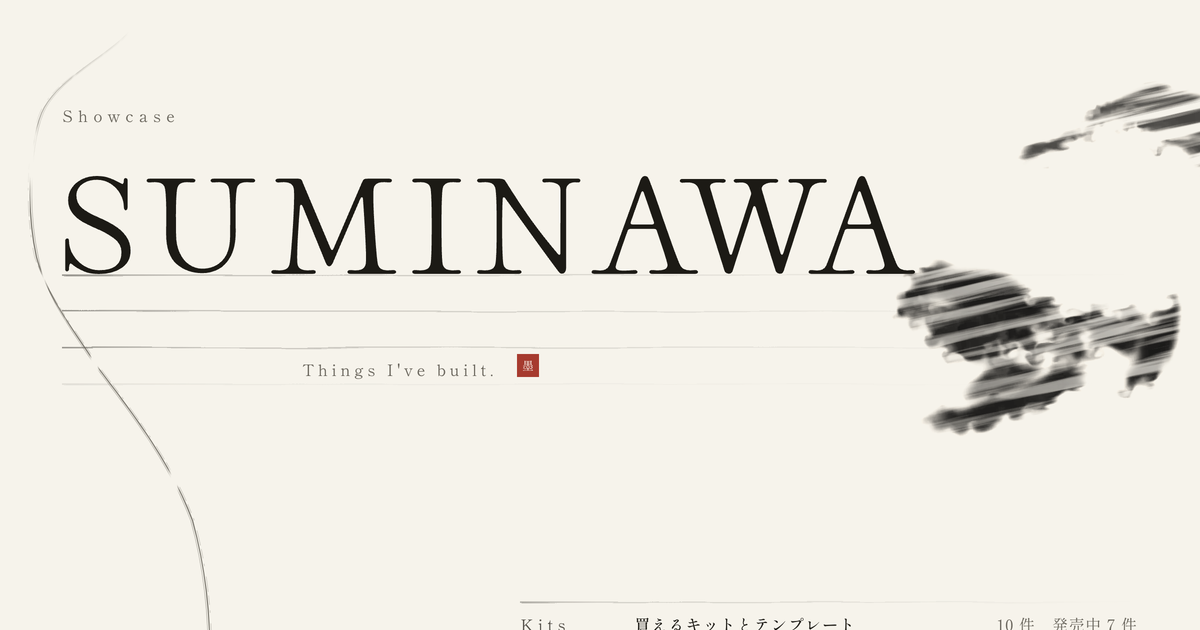
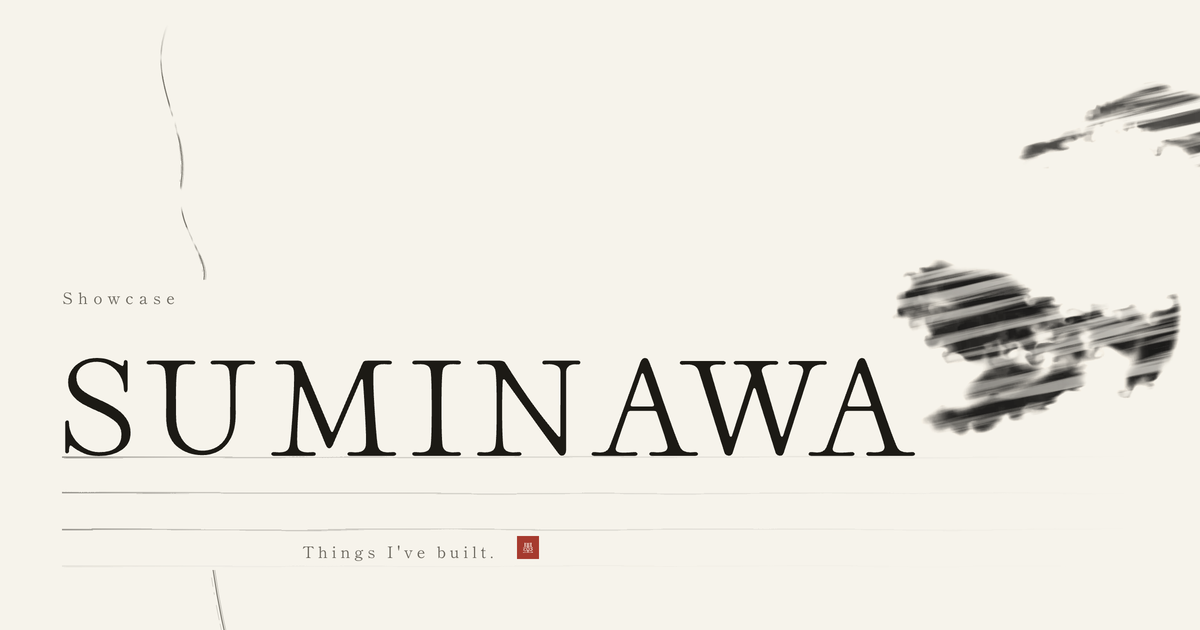
脈を元の二部品に戻し、本脈の書き出しを名乗りの直下へ上げる
大字の左を回して一本に繋いだ形を取り消し、元のハブと同じ二つの部品に戻した。

・入りの一筆は元のハブのまま。器（名乗りの上の空白の行）に罫 7 本ぶんを
  残す ── 詰めると同じ d が縦に潰れ、穏やかな一筆が小さな渦になる
  （曲率 0.003 → 0.44 /px）
・本脈は【名乗りの塊のすぐ下】＝ 英文の行の直下から、結びの手前まで
  一つの箱で降りる。書き出しが入口の下まで 750px 落ちていたのが
  「途中で消えている」の正体だった
・通り道は元のハブと同じ（x=0 が紙の中身の左端、x=100 が柱の左端）。
  最大曲率は 1280 で 0.0028 /px（半径 362px）、直線の区間なし
・狭い紙の振れ・太さ・濃さは前の周のまま（脈だけの紙の最暗画素は
  390〜1920 のどこでも 108/255）
・罫には触れていない

字の箱 215 件で脈に掛かる字 0 件。全長は 1280 で 2,429px。

diff --git a/src/lib/vein.ts b/src/lib/vein.ts
@@ -44,8 +44,7 @@ type Ends = readonly [start: number, end: number];
 
 const WIDE: Record<VeinSegment, Ends> = {
   head: [23, 31],
-  mark: [26, 40],
-  span: [40, 17],
+  span: [33, 6],
   w1: [33, 91],
   w2: [91, 87],
   w3: [87, 80],
@@ -55,22 +54,14 @@ const WIDE: Record<VeinSegment, Ends> = {
 /** 狭い紙は別の d を使う（振れ幅が 4〜5 倍）。端点も違うので表を分ける */
 const NARROW: Record<VeinSegment, Ends> = {
   head: [62, 46],
-  mark: [55, 56],
-  span: [56, 30],
+  span: [30, 16],
   w1: [36, 84],
   w2: [84, 74],
   w3: [74, 56],
   tail: [56, 17],
 };
 
-export type VeinSegment =
-  | "head"
-  | "mark"
-  | "span"
-  | "w1"
-  | "w2"
-  | "w3"
-  | "tail";
+export type VeinSegment = "head" | "span" | "w1" | "w2" | "w3" | "tail";
 
 /*
  * 脈の座標系。区間ごとに viewBox="0 0 100 100" / preserveAspectRatio="none" で、
@@ -91,33 +82,27 @@ export type VeinSegment =
  */
 export const STRANDS = {
   /*
-   * 上から下までの一本（2026-09-22）。区間は【名乗り】と【段から結びまで】の二つで、
-   * どちらも同じ通り道（紙の左端 x=0 〜 柱の左端 x=100）の上に置いてある。
-   * 継ぎ目では両側の接線を垂直にそろえてあるので、箱の縦横比が違っても折れない。
+   * 本脈 ── 名乗りの塊のすぐ下（英文「Things I've built.」の行の直下）から、
+   * 結びの界線が始まる手前まで、**一つの箱**で降りる。
    *
-   * ── なぜ二区間で、なぜ通り道に紙の縁を足したか ─────────────
-   * 紙が 2,000px を切ってからは、名乗りの上の一筆と段の脈が離れていると
-   * 「間」ではなく【切れている】に見える。つなぐには名乗りの帯を通すしかないが、
-   * そこには大字（SUMINAWA）が紙の左端から右へ伸びている。
-   * だから通り道を紙の縁（padding-inline）ぶん左へ広げ、**大字の左の余白**を
-   * すり抜けさせた。名乗りの中で脈が x<12 単位（1280px の紙で 67px）に収まるのは
-   * そのためで、そこから下は罫を抜いた入口の左の帯へ出て、段の横を通る。
+   * ＊ 一度は入りの一筆と本脈を一本に繋ぎ、大字の左の余白を回らせた
+   *   （2026-09-22 に取り消し）。部品は元のハブと同じ二つ ── 左上の入りの一筆と、
+   *   名乗りの下から始まる本脈 ── で、離れていることは「切れ」ではない。
+   *   「途中で消えている」の正体は、本脈の書き出しが入口の【下】まで
+   *   750px ほど落ちていたことだった。書き出しを名乗りの直下へ上げると、
+   *   元のハブと同じ関係に戻る。
    *
-   * ── 曲率（画面の寸法へ写して測る）─────────────────────────
-   *   元のハブ 1280 の最大 0.0333 /px（半径 30px）
-   *   mark（箱 555×814）0.0173 /px（半径 58px）／ span（箱 555×846）0.0120 /px（83px）
-   *   768px（箱 157×754）0.0076 /px ／ 390px（箱 55×839 / 55×880）0.0075・0.0047 /px
-   * 直線の区間（曲率 0 の帯）は無い。
+   * 通り道は元のハブと同じ ── x=0 が紙の中身の左端、x=100 が柱（入口 3 行と
+   * 4 点）の左端。罫を抜いた入口の左の帯をそのまま降りる。
+   *
+   * 曲率（画面の寸法へ写して実測）: 1280px の紙（箱 489×1287）で 0.0028 /px
+   * （半径 362px）、768px で 0.0013 /px、390px で 0.0003 /px。
+   * 元のハブの最大 0.0333 /px を大きく下回り、直線の区間（曲率 0 の帯）も無い。
    */
-  mark: [
-    "M 26 0 C 21 4 11 6.5 8 11 C 5.5 15 5 23 7 29 C 9 34 14 38 19 43 C 26 49 33 55 37 62 C 40 69 41 77 40 85 C 40 90 40 95 40 100",
-    "M 26.35 0 C 21.35 4 11.35 6.5 8.35 11 C 5.85 15 5.35 23 7.35 29 C 8.65 34 13.65 38 18.65 43 C 25.65 49 32.65 55 36.65 62 C 39.65 69 40.65 77 39.65 85 C 39.65 90 39.65 95 39.65 100",
-    "M 25.65 0.6 C 20.65 4 10.65 6.5 7.65 11 C 5.15 15 4.65 23 6.65 29 C 9.35 34 14.35 38 19.35 43 C 26.35 49 33.35 55 37.35 62 C 40.35 69 41.35 77 40.35 85 C 40.35 90 40.35 95 40.35 99.4",
-  ],
   span: [
-    "M 40 0 C 40 8 48 14 58 20 C 70 27 86 34 91 45 C 94 55 90 63 82 70 C 71 80 51 88 32 94 C 25 96.5 20 99 17 100",
-    "M 39.65 0 C 39.65 8 47.65 14 57.65 20 C 69.65 27 85.65 34 90.65 45 C 94.35 55 90.35 63 82.35 70 C 71.35 80 51.35 88 32.35 94 C 25.35 96.5 20.35 99 17.35 100",
-    "M 40.35 0 C 40.35 8 48.35 14 58.35 20 C 70.35 27 86.35 34 91.35 45 C 93.65 55 89.65 63 81.65 70 C 70.65 80 50.65 88 31.65 94 C 24.65 96.5 19.65 99 16.65 99.4",
+    "M 33 0 C 37 10 46 17 56 24 C 68 32 80 39 86 48 C 90 55 90 62 85 68 C 77 77 58 84 38 90 C 24 94 12 98 6 100",
+    "M 33.35 0 C 37.35 10 46.35 17 56.35 24 C 68.35 32 80.35 39 86.35 48 C 89.65 55 89.65 62 84.65 68 C 76.65 77 57.65 84 37.65 90 C 23.65 94 11.65 98 5.65 100",
+    "M 32.65 0.6 C 36.65 10 45.65 17 55.65 24 C 67.65 32 79.65 39 85.65 48 C 90.35 55 90.35 62 85.35 68 C 77.35 77 58.35 84 38.35 90 C 24.35 94 12.35 98 6.35 99.4",
   ],
   /* 名乗りの上に残った空白を、まだ迷いながら降りる頭。ここで筆は一度紙を離れる */
   head: [
@@ -165,20 +150,15 @@ export const STRANDS = {
  */
 export const STRANDS_NARROW = {
   /*
-   * 狭い紙の一本。通り道は【紙の縁 ＋ 段の左の余白】＝ 390px の紙で 55px しかない。
-   * 振れを広い紙の 4〜5 倍に取り、x=13 単位（7px）〜 92 単位（51px）まで使う ──
+   * 狭い紙の本脈。通り道は【紙の縁 ＋ 段の左の余白】＝ 390px の紙で 55px しかない。
+   * 振れを広い紙の 4〜5 倍に取り、x=16 単位（9px）〜 90 単位（50px）まで使う ──
    * 同じ d を流し込むと横の動きが 2px しか出ず、脈が罫にしか見えない。
-   * 名乗りの帯では x<36 単位（20px ＝ 紙の縁の内側）に収め、大字に掛けない。
+   * 柱（行の字）は x=100 単位から始まるので、字には一度も掛からない。
    */
-  mark: [
-    "M 55 0 C 48 3 30 5 22 9 C 14 13 12 17 16 22 C 22 28 34 33 42 40 C 52 48 58 57 58 67 C 58 78 56 90 56 100",
-    "M 56.6 0 C 49.6 3 31.6 5 23.6 9 C 15.6 13 13.6 17 17.6 22 C 23.6 28 35.6 33 43.6 40 C 53.6 48 59.6 57 59.6 67 C 59.6 78 57.6 90 57.6 100",
-    "M 53.4 0.5 C 46.4 3 28.4 5 20.4 9 C 12.4 13 10.4 17 14.4 22 C 20.4 28 32.4 33 40.4 40 C 50.4 48 56.4 57 56.4 67 C 56.4 78 54.4 90 54.4 99.4",
-  ],
   span: [
-    "M 56 0 C 56 8 66 14 76 21 C 86 29 92 37 92 47 C 92 57 86 65 76 72 C 62 81 44 89 34 95 C 31 97 30 99 30 100",
-    "M 57.6 0 C 57.6 8 67.6 14 77.6 21 C 87.6 29 93.6 37 93.6 47 C 93.6 57 87.6 65 77.6 72 C 63.6 81 45.6 89 35.6 95 C 32.6 97 31.6 99 31.6 100",
-    "M 54.4 0 C 54.4 8 64.4 14 74.4 21 C 84.4 29 90.4 37 90.4 47 C 90.4 57 84.4 65 74.4 72 C 60.4 81 42.4 89 32.4 95 C 29.4 97 28.4 99 28.4 99.4",
+    "M 30 0 C 34 9 48 16 62 24 C 78 33 90 41 90 52 C 90 63 80 71 66 78 C 50 86 32 93 22 97 C 19 98.5 17 99.5 16 100",
+    "M 31.6 0 C 35.6 9 49.6 16 63.6 24 C 79.6 33 91.6 41 91.6 52 C 88.4 63 78.4 71 64.4 78 C 48.4 86 30.4 93 20.4 97 C 17.4 98.5 15.4 99.5 14.4 100",
+    "M 28.4 0.5 C 32.4 9 46.4 16 60.4 24 C 76.4 33 88.4 41 88.4 52 C 91.6 63 81.6 71 67.6 78 C 51.6 86 33.6 93 23.6 97 C 20.6 98.5 18.6 99.5 17.6 99.4",
   ],
   head: [
     "M 62 0 C 60 18 36 26 32 44 C 28 62 44 76 46 100",

diff --git a/src/app/ryoushi.module.css b/src/app/ryoushi.module.css
@@ -123,6 +123,10 @@
      入口の行・入口の版面・筆脈の通り道の三つが同じ値を読むので、
      幅を変えるときはここ一箇所でよい */
   --hi-column: calc((5 * 100% + 5 * var(--hi-gap)) / 12);
+  /* 入口 3 行が占める罫の本数（行 3 本 ＋ あいだの空き 2 本）。
+     狭い紙では件数が次の罫へ落ちるので 8 本になる。本脈の書き出しの位置が
+     これを読む（名乗りの直下から始めるため） */
+  --hi-gates-rows: 5;
   /* 分類のページの題。作品ページの「大」と同じ寸法で、同じ役（面の名乗り）を持つ */
   --hi-large: clamp(1.75rem, 4.2vw, 3rem); /* 28 → 48px */
   /* 名乗りだけは別に持つ。界線の版面の高さがこの値から決まるため */
@@ -493,21 +497,19 @@
    -------------------------------------------------------------------------- */
 
 /*
- * 通り道 ── 【紙の左の縁】から【柱の左端】まで。
- *
- * x = 0   … 紙の左の縁（padding-inline の外側 ＝ 画面の左端）
- * x = 100 … 柱（入口 3 行と 4 点）の左端
- *
- * 縁を通り道に入れてあるのがこの案の要で、名乗りの帯では脈が縁の内側
- * （1280px の紙で x<67px）を降りて**大字の左をすり抜ける**。
- * 二つの区間（名乗り／段から結びまで）はこの同じ通り道を共有するので、
- * 箱の高さが違っても x は同じ物理位置を指し、継ぎ目で横に跳ばない。
+ * 入りの一筆の器 ── 名乗りの「空白の行」そのもの（.mark の 1fr）。
+ * grid item なので absolute にしない。元のハブとまったく同じ置き方で、
+ * 紙が余っていなければ高さ 0 になり、一筆は自然に消える。
+ * 文字とも、名乗りの版面に敷いた界線とも交差しない。
  */
-.zMark {
-  inset-block: 0;
-  left: calc(-1 * var(--hi-pad));
-  width: calc(var(--hi-pad) + var(--hi-column));
-  --myaku-draw: 1100ms;
+.zHead {
+  position: relative;
+  justify-self: start;
+  align-self: stretch;
+  min-height: 0;
+  width: calc((5 * 100% + 5 * var(--hi-gap)) / 12);
+  --myaku-draw: 860ms;
+  --myaku-draw-delay: 900ms;
   /* 紙の上端では筆はまだ紙に触れていない。上 2 割を掠れさせて始点を消す */
   mask-image: var(--myaku-kasure-head);
 }
@@ -530,12 +532,12 @@
  * の二点だけにしてある。
  */
 .zShelf {
-  /* 段の箱は 7 列幅なので、5 列ぶんはこの式で逆算する（.mark の --hi-column と
-     同じ物理の幅になる。読む器が違うので式だけ別に書いてある） */
+  /* 段の箱は 7 列幅なので、5 列ぶんはこの式で逆算する（入りの一筆の器と
+     同じ物理の幅 ＝ 元のハブと同じ通り道になる） */
   --myaku-band: calc((5 * 100% + 5 * var(--hi-gap)) / 7);
-  --myaku-draw: 900ms;
-  left: calc(-1 * var(--myaku-band) - var(--hi-pad));
-  width: calc(var(--myaku-band) + var(--hi-pad));
+  --myaku-draw: 1150ms;
+  left: calc(-1 * var(--myaku-band));
+  width: var(--myaku-band);
   /* 段の下端では終わらない。結びの界線が始まる 3 行手前まで【同じ箱】で降りる ──
      区間を継がないので繋ぎ目の角が出ない。縦の線と横の罫が同じ帯で重なって
      方眼に見えないよう、止めるのは罫の 3 行手前のままである */
@@ -544,7 +546,12 @@
   mask-image: var(--myaku-kasure-tail);
   /* 箱の上端は【前の段の下端】。段の余白と同じ値を読むので、区間は隙間なく継ぎ、
      前の段へ食い込むこともない ── 終点 x と次の始点 x は変わらないので繋ぎ目は飛ばない */
-  top: calc(-1 * var(--hi-shelf-gap, var(--hi-void)));
+  /* 書き出しは【名乗りの塊のすぐ下】── 英文の行の直下。
+     名乗りの段の下端から数えて 余白 1 行 ＋ 入口（--hi-gates-rows 行）＋ 送り 6 行 */
+  top: calc(
+    -1 * var(--hi-shelf-gap, var(--hi-void)) -
+      (7 + var(--hi-gates-rows)) * var(--hi-kei-pitch)
+  );
 }
 
 @keyframes hi-myaku {
@@ -575,12 +582,13 @@
      min-height はもう効かない（効くのは背の高い窓だけ）。 */
   min-height: min(72svh, 600px);
   display: grid;
-  /* 脈は段ぜんたいを器にする絶対配置になったので、先頭の空行は要らない。
-     余った紙は上へ返し（align-content: end）、紙の上端には罫 2 本ぶんを必ず残す ──
-     0 にすると脈の書き出しが紙の外から始まり、一本の線が紙を降りる絵の【入り】が消える */
-  grid-template-rows: auto auto auto auto;
-  align-content: end;
-  padding-top: calc(2 * var(--hi-kei-pitch));
+  /* 先頭の行は入りの一筆の器。元のハブの一筆は 275px ほどの長い一本なので、
+     ここに罫 7 本ぶん（1280px の紙で 258px）は必ず残す ── 詰めると
+     同じ d が縦に潰れ、穏やかな一筆が小さな渦に化ける（実測で曲率が
+     0.003 → 0.44 /px に跳ねる）。余った紙はこの行が吸う */
+  grid-template-rows:
+    minmax(calc(7 * var(--hi-kei-pitch)), 1fr)
+    auto auto auto auto;
   /* 界線の整数倍。ここが半端だと下から数えた罫の位相が狂う。
      ＊ 3 行 → 2 行（2026-09-21）。名乗りの段に入口 3 行が入ったぶん、
      下の余白から返している。入口の湿りは 1 行しか漏れないので、
@@ -1730,6 +1738,9 @@
   .paper {
     --hi-column: calc((2 * 100% + 2 * var(--hi-gap)) / 12);
   }
+  .zHead {
+    width: calc((2 * 100% + 2 * var(--hi-gap)) / 12);
+  }
   .zShelf {
     --myaku-band: calc((2 * 100% + 2 * var(--hi-gap)) / 10);
   }
@@ -1876,9 +1887,18 @@
   .paper {
     --hi-column: 9vw;
   }
+  /* 狭い紙では入口の件数が次の罫へ落ちるので、入口は 3 行 × 2 ＋ 空き 2 ＝ 8 本 */
+  .paper {
+    --hi-gates-rows: 8;
+  }
+  .zHead {
+    left: calc(-0.85 * var(--hi-pad));
+    width: calc(9vw + 0.85 * var(--hi-pad));
+  }
   .zShelf {
     /* 段の箱は紙の中身の左端から始まり、9vw は padding として内側にある。
-       だから外へ出すのは紙の縁（--hi-pad）ぶんだけでよい */
+       だから外へ出すのは紙の縁（--hi-pad）ぶんだけでよい ── 通り道が
+       55px に広がり、狭い紙でも脈に振れが出る */
     --myaku-band: 9vw;
     left: calc(-1 * var(--hi-pad));
     width: calc(var(--hi-pad) + 9vw);

diff --git a/src/app/page.tsx b/src/app/page.tsx
@@ -138,9 +138,9 @@ export default function Home() {
       {/* 界線は要素を足さずに引く。各段の ::before が、その段の版面ぶんだけ罫を敷く
           （装飾は擬似要素なので支援技術には現れず、pointer-events も持たない） */}
       <header className={s.mark}>
-        {/* 脈の一区間め。名乗りの段ぜんたいを器にして、紙の左の縁を降りる。
-            大字の左をすり抜けるので、字とは一度も交わらない */}
-        <Myaku zone={s.zMark} at="mark" dx={0} dxNarrow={0} delayMs={760} />
+        {/* 入りの一筆。名乗りの上に残った空白の行を、そのまま器にしている。
+            元のハブと同じ部品で、下の本脈とは繋がない */}
+        <Myaku zone={s.zHead} at="head" dx={0} dxNarrow={0} delayMs={900} />
         <p className={s.showcase}>Showcase</p>
         <h1 className={s.wordmark}>SUMINAWA</h1>
         <p className={s.en}>
@@ -169,9 +169,8 @@ export default function Home() {
       </header>
 
       <section className={s.shelf} aria-labelledby="picks-name">
-        {/* 脈の二区間め。段の上の間から、結びの界線が始まる手前まで。
-            名乗りの区間と同じ通り道の上に置き、継ぎ目では両側の接線を垂直に
-            そろえてあるので、一本の線として繋がる（@/lib/vein の註）*/}
+        {/* 本脈。名乗りの塊のすぐ下（英文の行の直下）から、結びの界線が
+            始まる手前まで、一つの箱で降りる（@/lib/vein の註）*/}
         <Myaku zone={s.zShelf} at="span" dx={0} dxNarrow={0} delayMs={1120} />
 
         <div className={s.shelfHead}>

diff --git a/DESIGN.md b/DESIGN.md
@@ -203,9 +203,12 @@ components:
 
 ### 筆脈（vein）
 
-**脈は紙の上端から結びの手前まで、一本で通す**（2026-09-22）。区間は【名乗り】と【段から結びまで】の二つで、どちらも**同じ通り道**（x=0 が紙の左の縁、x=100 が柱の左端）の上に置く。継ぎ目では両側の接線を垂直にそろえるので、箱の高さが違っても折れない。
+**部品は二つ。入りの一筆と本脈で、繋がない**（2026-09-22）。元のハブと同じ形である。
 
-**通り道に紙の縁（padding-inline）を入れる。** 紙が 2,000px を切ってからは、名乗りの上の一筆と段の脈が離れていると「間」ではなく【切れている】に見える。つなぐには名乗りの帯を通すしかないが、そこには大字が紙の左端から右へ伸びている ── だから通り道を縁ぶん左へ広げ、**大字の左の余白をすり抜けさせた**。名乗りの中で脈が縁の内側（1280px の紙で x<67px）に収まるのはそのためである。
+- **入りの一筆** … 名乗りの上に残った空白の行を器にする長い一本。器には罫 7 本ぶん（1280px の紙で 258px）を必ず残す ── 詰めると同じ d が縦に潰れ、穏やかな一筆が小さな渦に化ける（実測で曲率が 0.003 → 0.44 /px に跳ねる）
+- **本脈** … **名乗りの塊のすぐ下**（英文「Things I've built.」の行の直下）から、結びの界線が始まる手前まで、一つの箱で降りる。通り道は元のハブと同じで、x=0 が紙の中身の左端、x=100 が柱の左端 ── 罫を抜いた入口の左の帯をそのまま降りる
+
+＊ 一度は二つを一本に繋ぎ、大字の左の余白を回らせた（同日に取り消し）。**離れていることは「切れ」ではない。**「途中で消えている」の正体は、本脈の書き出しが入口の【下】まで 750px ほど落ちていたことだった。書き出しを名乗りの直下へ上げれば、元のハブと同じ関係に戻る。
 
 **狭い紙でも見えるものにする。** 390px の通り道は 55px しかない。同じ d を流し込むと横の動きが 2px しか出ず、脈が罫にしか見えないので、振れを 4〜5 倍に取って x=7px〜51px まで使う。太さと濃さは幅によらず同じ（`vector-effect="non-scaling-stroke"`。実測で脈だけの紙の最暗画素は 390〜1920 のどこでも **108/255**）。
 
@@ -217,9 +220,8 @@ components:
 | --- | --- | --- |
 | 元のハブ 1280（頭・w1・w2・w3・尾の最大） | 0.0333 /px | 30px |
 | 継いでいた v2 の尾（1280） | **0.0908 /px** | **11px** |
-| いまの mark（1280・箱 555×812） | **0.0173 /px** | 58px |
-| いまの span（1280・箱 555×846） | 0.0120 /px | 83px |
-| いまの mark / span（390・箱 55×740 / 55×869） | 0.0075 / 0.0047 /px | 134 / 211px |
+| いまの本脈（1280・箱 489×1288） | **0.0028 /px** | 362px |
+| いまの本脈（768・箱 157×1160 ／ 390・箱 55×1352） | 0.0013 / 0.0003 /px | 792 / 3,487px |
 
 制御点は段の境目ではなく**全長にわたってほぼ等間隔**に置く。直線の区間（曲率 0 の帯）を作らない。
 
